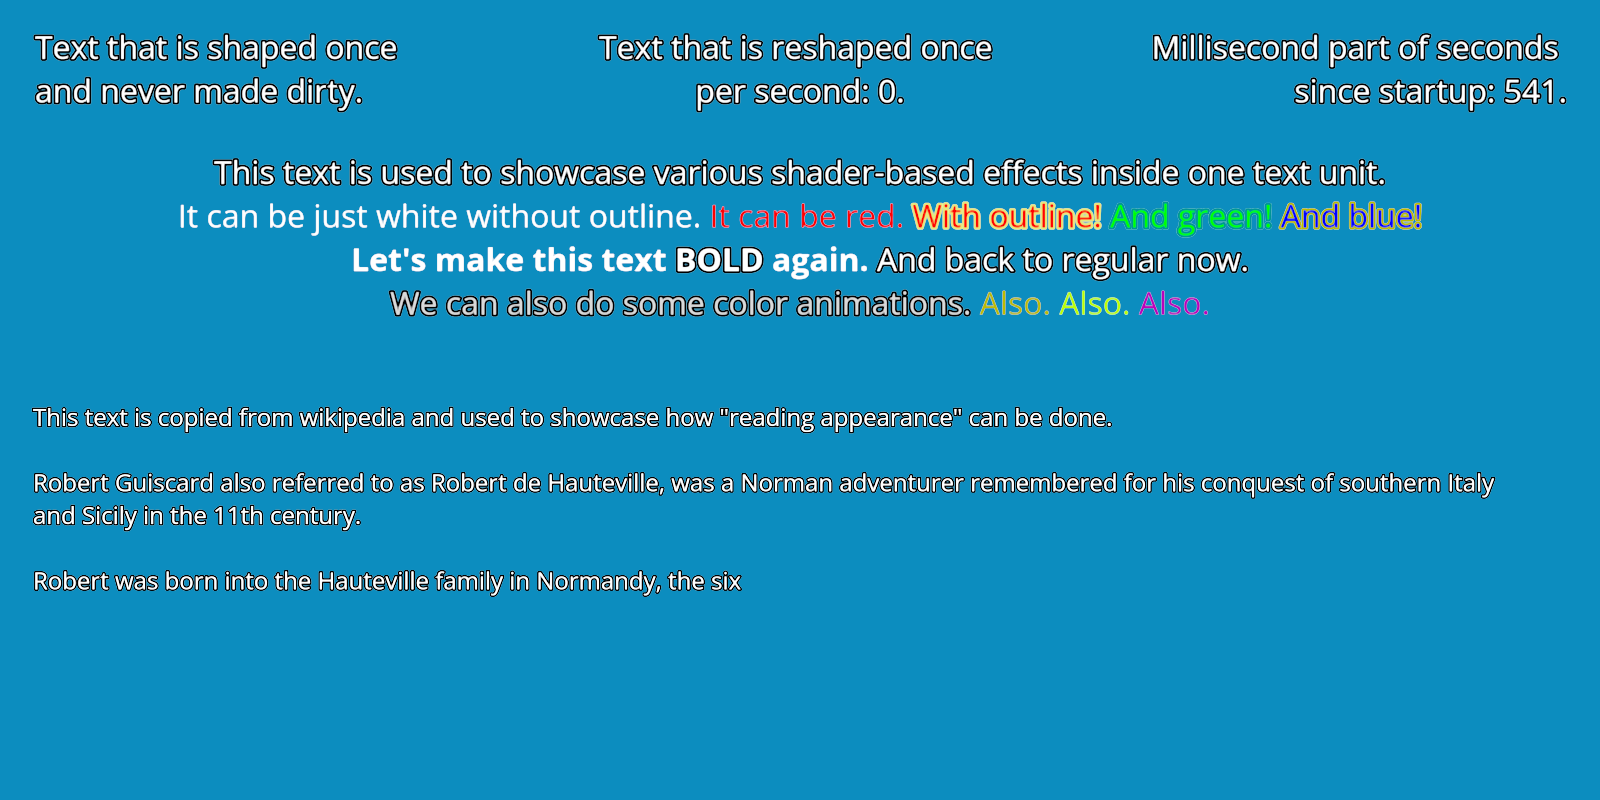
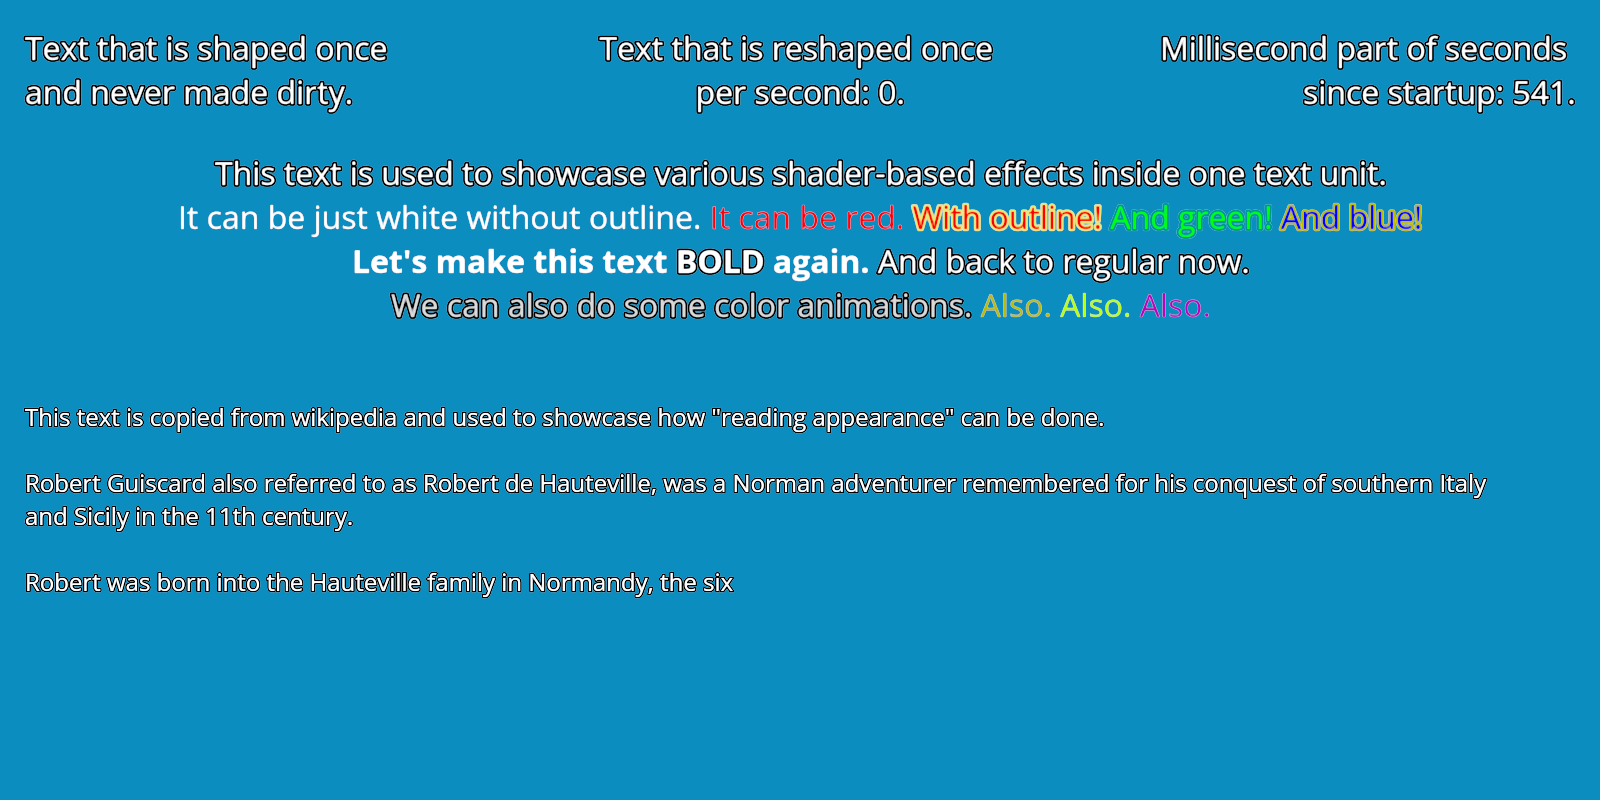
#88. text: More typographically correct shaped sequence positioning through ascenders and descenders. Will be important for the UI as with render-based bounds it would be impossible to preserve shared baselines.

diff --git a/unit/text_ft_hb/kan/text/text.c b/unit/text_ft_hb/kan/text/text.c
@@ -676,11 +676,8 @@ void kan_text_destroy (kan_text_t instance)
 
 void kan_text_shaped_data_init (struct kan_text_shaped_data_t *instance)
 {
-    instance->primary_default_ascender = 0;
-    instance->min.x = 0;
-    instance->min.y = 0;
-    instance->max.x = 0;
-    instance->max.y = 0;
+    instance->typographic_primary_size = 0u;
+    instance->typographic_secondary_size = 0u;
 
     kan_dynamic_array_init (&instance->glyphs, 0u, sizeof (struct kan_text_shaped_glyph_instance_data_t),
                             alignof (struct kan_text_shaped_glyph_instance_data_t), kan_allocation_group_stack_get ());
@@ -1018,6 +1015,8 @@ struct shape_context_t
     struct kan_dynamic_array_t sequences;
     struct kan_dynamic_array_t render_delayed;
 
+    int32_t primary_default_ascender_26_6;
+    int32_t primary_default_descender_26_6;
     int32_t icon_base_width_26_6;
     int32_t icon_base_height_26_6;
     int32_t icon_base_y_offset_26_6;
@@ -1876,11 +1875,19 @@ static void shape_text_node_icon (struct shape_context_t *context, struct text_n
 
 static void shape_post_process_sequences (struct shape_context_t *context)
 {
-    context->output->min.x = 0;
-    context->output->min.y = 0;
-    context->output->max.x = 0;
-    context->output->max.y = 0;
-    int32_t baseline_26_6 = 0;
+    context->output->typographic_primary_size = context->request->primary_axis_limit;
+    context->output->typographic_secondary_size = 0u;
+
+#if KAN_TEXT_FT_HB_ROUND_OFFSETS_TO_PIXELS > 0u
+#    define MASK_FRACT (64u - 1u)
+#    define MASK_TRUNC ~MASK_FRACT
+#    define ROUND_GAP(VARIABLE) VARIABLE = (VARIABLE & MASK_TRUNC) + ((VARIABLE & MASK_FRACT) > 0u ? 64u : 0u);
+#else
+#    define ROUND_GAP(VARIABLE)
+#endif
+
+    int32_t baseline_26_6 = context->primary_default_ascender_26_6;
+    ROUND_GAP (baseline_26_6);
 
     for (kan_loop_size_t sequence_index = 0u; sequence_index < context->sequences.size; ++sequence_index)
     {
@@ -1924,6 +1931,7 @@ static void shape_post_process_sequences (struct shape_context_t *context)
             }
         }
 
+        ROUND_GAP (alignment_offset_26_6);
         kan_loop_size_t glyph_limit = context->output->glyphs.size;
         kan_loop_size_t icon_limit = context->output->icons.size;
 
@@ -1964,11 +1972,6 @@ static void shape_post_process_sequences (struct shape_context_t *context)
             glyph->min.y = FROM_26_6 (min_26_6->y);
             glyph->max.x = FROM_26_6 (max_26_6->x);
             glyph->max.y = FROM_26_6 (max_26_6->y);
-
-            context->output->min.x = KAN_MIN (context->output->min.x, (int32_t) glyph->min.x);
-            context->output->min.y = KAN_MIN (context->output->min.y, (int32_t) glyph->min.y);
-            context->output->max.x = KAN_MAX (context->output->max.x, (int32_t) glyph->max.x);
-            context->output->max.y = KAN_MAX (context->output->max.y, (int32_t) glyph->max.y);
         }
 
         for (kan_loop_size_t icon_index = sequence->first_icon_index; icon_index < icon_limit; ++icon_index)
@@ -1999,14 +2002,18 @@ static void shape_post_process_sequences (struct shape_context_t *context)
             icon->min.y = roundf (FROM_26_6 (min_26_6->y));
             icon->max.x = roundf (FROM_26_6 (max_26_6->x));
             icon->max.y = roundf (FROM_26_6 (max_26_6->y));
+        }
 
-            context->output->min.x = KAN_MIN (context->output->min.x, (int32_t) icon->min.x);
-            context->output->min.y = KAN_MIN (context->output->min.y, (int32_t) icon->min.y);
-            context->output->max.x = KAN_MAX (context->output->max.x, (int32_t) icon->max.x);
-            context->output->max.y = KAN_MAX (context->output->max.y, (int32_t) icon->max.y);
+        if (sequence_index == context->sequences.size - 1u)
+        {
+            int32_t descender_gap = context->primary_default_descender_26_6;
+            ROUND_GAP (descender_gap);
+            context->output->typographic_secondary_size =
+                (kan_instance_size_t) roundf (FROM_26_6 (baseline_26_6 - descender_gap));
         }
 
         baseline_26_6 += sequence->biggest_line_space_26_6;
+        ROUND_GAP (baseline_26_6);
     }
 }
 
@@ -2068,7 +2075,8 @@ bool kan_font_library_shape (kan_font_library_t instance,
 
         struct hb_font_extents_t font_extents;
         hb_font_get_extents_for_direction (context.harfbuzz_font, harfbuzz_direction, &font_extents);
-        output->primary_default_ascender = (int32_t) FROM_26_6 (font_extents.ascender);
+        context.primary_default_ascender_26_6 = font_extents.ascender;
+        context.primary_default_descender_26_6 = font_extents.descender;
 
         context.icon_base_width_26_6 = font_extents.ascender - font_extents.descender;
         context.icon_base_height_26_6 = font_extents.ascender - font_extents.descender;
@@ -2076,7 +2084,8 @@ bool kan_font_library_shape (kan_font_library_t instance,
     }
     else
     {
-        output->primary_default_ascender = 0;
+        context.primary_default_ascender_26_6 = TO_26_6 (request->font_size);
+        context.primary_default_descender_26_6 = 0;
         context.icon_base_width_26_6 = TO_26_6 (request->font_size);
         context.icon_base_height_26_6 = TO_26_6 (request->font_size);
         context.icon_base_y_offset_26_6 = -context.icon_base_height_26_6;

diff --git a/unit/universe_text/kan/universe_text/text.c b/unit/universe_text/kan/universe_text/text.c
@@ -839,19 +839,11 @@ static void shape_unit (struct text_shaping_state_t *state,
                         kan_render_context_t render_context)
 {
     unit->dirty = false;
-    bool shaped_successfully = false;
-
-    CUSHION_DEFER
+    if (unit->request.primary_axis_limit == 0u)
     {
-        if (shaped_successfully)
-        {
-            unit->shaped = true;
-            unit->shaped_as_stable = unit->stable;
-        }
-        else
-        {
-            shaping_unit_on_failed (unit);
-        }
+        // Silent failure that is actually an expected skip by the docs.
+        shaping_unit_on_failed (unit);
+        return;
     }
 
     switch (locale->resource.preferred_direction)
@@ -872,12 +864,12 @@ static void shape_unit (struct text_shaping_state_t *state,
     {
         kan_text_shaped_data_shutdown (&shaped_data);
         KAN_LOG (text_shaping, KAN_LOG_ERROR, "Failed to execute text shaping due to errors in backend.")
+        shaping_unit_on_failed (unit);
         return;
     }
 
-    unit->shaped_primary_default_ascender = shaped_data.primary_default_ascender;
-    unit->shaped_min = shaped_data.min;
-    unit->shaped_max = shaped_data.max;
+    unit->shaped_primary_size = shaped_data.typographic_primary_size;
+    unit->shaped_secondary_size = shaped_data.typographic_secondary_size;
 
     if (unit->stable)
     {
@@ -944,7 +936,6 @@ static void shape_unit (struct text_shaping_state_t *state,
         }
 
         kan_text_shaped_data_shutdown (&shaped_data);
-        shaped_successfully = true;
     }
     else
     {
@@ -952,8 +943,11 @@ static void shape_unit (struct text_shaping_state_t *state,
         // On purpose: just copy pointers and go, do not shutdown shaped data on stack.
         unit->shaped_unstable.glyphs = shaped_data.glyphs;
         unit->shaped_unstable.icons = shaped_data.icons;
-        shaped_successfully = true;
     }
+
+    unit->shaped = true;
+    unit->shaped_as_stable = unit->stable;
+    KAN_UMO_EVENT_INSERT (event, kan_text_shaped_t) { event->id = unit->id; }
 }
 
 UNIVERSE_TEXT_API KAN_UM_MUTATOR_EXECUTE (text_shaping)
@@ -1063,7 +1057,7 @@ void kan_text_shaping_unit_init (struct kan_text_shaping_unit_t *instance)
     instance->request.orientation = KAN_TEXT_ORIENTATION_HORIZONTAL;
     instance->request.reading_direction = KAN_TEXT_READING_DIRECTION_LEFT_TO_RIGHT;
     instance->request.alignment = KAN_TEXT_SHAPING_ALIGNMENT_LEFT;
-    instance->request.primary_axis_limit = 200u;
+    instance->request.primary_axis_limit = 0u;
     instance->request.text = KAN_HANDLE_SET_INVALID (kan_text_t);
 
     instance->stable = true;
@@ -1071,11 +1065,8 @@ void kan_text_shaping_unit_init (struct kan_text_shaping_unit_t *instance)
     instance->shaped = false;
     instance->shaped_as_stable = true;
 
-    instance->shaped_primary_default_ascender = 0;
-    instance->shaped_min.x = 0;
-    instance->shaped_min.y = 0;
-    instance->shaped_max.x = 0;
-    instance->shaped_max.y = 0;
+    instance->shaped_primary_size = 0u;
+    instance->shaped_secondary_size = 0u;
 
     instance->shaped_stable.glyphs_count = 0u;
     instance->shaped_stable.icons_count = 0u;

diff --git a/unit/universe_text/kan/universe_text/text.h b/unit/universe_text/kan/universe_text/text.h
@@ -110,6 +110,8 @@ struct kan_text_shaping_unit_t
     /// \brief Shaping request. Text inside is owner by the shaping unit.
     /// \warning `reading_direction` field is automatically reset to the appropriate value from locale when shaping is
     ///          started, therefore it doesn't matter which value user sets there.
+    /// \warning If `primary_axis_limit` is zero, it is treated as "do not shape" configuration. It is useful for the
+    ///          cases when full shaping configuration will be prepared later, for example during laying out UI.
     struct kan_text_shaping_request_t request;
 
     /// \brief Whether this text should be shaped as stable text.
@@ -124,9 +126,8 @@ struct kan_text_shaping_unit_t
     /// \brief If `shaped`, tells whether it was `stable` when it was last shaped.
     bool shaped_as_stable;
 
-    int32_t shaped_primary_default_ascender;
-    struct kan_int32_vector_2_t shaped_min;
-    struct kan_int32_vector_2_t shaped_max;
+    kan_instance_size_t shaped_primary_size;
+    kan_instance_size_t shaped_secondary_size;
 
     union
     {
@@ -143,5 +144,11 @@ struct kan_text_shaping_unit_t
 UNIVERSE_TEXT_API void kan_text_shaping_unit_init (struct kan_text_shaping_unit_t *instance);
 
 UNIVERSE_TEXT_API void kan_text_shaping_unit_shutdown (struct kan_text_shaping_unit_t *instance);
+
+/// \brief Event that is sent when text unit shaping is executed.
+struct kan_text_shaped_t
+{
+    kan_text_shaping_unit_id_t id;
+};
 
 KAN_C_HEADER_END

diff --git a/unit/text/kan/text/text.h b/unit/text/kan/text/text.h
@@ -182,11 +182,11 @@ struct kan_text_shaped_icon_instance_data_t
 /// \brief Contains shaped data for rendering the whole text object.
 struct kan_text_shaped_data_t
 {
-    /// \brief Ascender value for the shaped data of the font category that is considered primary.
-    int32_t primary_default_ascender;
+    /// \brief Size on the primary direction.
+    kan_instance_size_t typographic_primary_size;
 
-    struct kan_int32_vector_2_t min;
-    struct kan_int32_vector_2_t max;
+    /// \brief Size on the secondary direction.
+    kan_instance_size_t typographic_secondary_size;
 
     KAN_REFLECTION_DYNAMIC_ARRAY_TYPE (struct kan_text_shaped_glyph_instance_data_t)
     struct kan_dynamic_array_t glyphs;
@@ -254,7 +254,7 @@ enum kan_text_shaping_alignment_t
 struct kan_text_shaping_request_t
 {
     /// \brief Font size for calculating glyph sizes for shaping.
-    uint32_t font_size;
+    kan_instance_size_t font_size;
 
     /// \brief Glyph render format for all glyphs in the text.
     enum kan_font_glyph_render_format_t render_format;

diff --git a/executable/application_framework_examples/unit/text_effects/example.c b/executable/application_framework_examples/unit/text_effects/example.c
@@ -953,20 +953,17 @@ static void try_render_frame (struct text_effects_render_state_t *state,
             const kan_instance_size_t glyphs_count =
                 unit->shaped_as_stable ? unit->shaped_stable.glyphs_count : unit->shaped_unstable.glyphs.size;
 
-            push.offset_and_time.x -= unit->shaped_min.x;
-            push.offset_and_time.y -= unit->shaped_min.y;
-
             switch (unit->request.alignment)
             {
             case KAN_TEXT_SHAPING_ALIGNMENT_LEFT:
                 break;
 
             case KAN_TEXT_SHAPING_ALIGNMENT_CENTER:
-                push.offset_and_time.x -= ((float) unit->request.primary_axis_limit) * 0.5f;
+                push.offset_and_time.x -= ((float) unit->shaped_primary_size) * 0.5f;
                 break;
 
             case KAN_TEXT_SHAPING_ALIGNMENT_RIGHT:
-                push.offset_and_time.x -= (unit->shaped_max.x - unit->shaped_min.x);
+                push.offset_and_time.x -= (float) unit->shaped_primary_size;
                 break;
             }
 

diff --git a/executable/application_framework_examples/unit/test_utilities/kan/test_routine/test_routine.c b/executable/application_framework_examples/unit/test_utilities/kan/test_routine/test_routine.c
@@ -255,6 +255,12 @@ TEST_ROUTINE_API KAN_UM_MUTATOR_EXECUTE (test_routine)
                                  (unsigned long) index, 100.0f * (float) error_count / (float) pixel_count)
                         exit_code = 1;
                     }
+                    else
+                    {
+                        KAN_LOG (application_framework_example_test_routine, KAN_LOG_INFO,
+                                 "Frame and expectation difference at view %lu is %.3f%%.", (unsigned long) index,
+                                 100.0f * (float) error_count / (float) pixel_count)
+                    }
                 }
 
                 kan_application_framework_system_request_exit (state->application_framework_system_handle, exit_code);

diff --git a/test/text/test_text.c b/test/text/test_text.c
@@ -752,8 +752,8 @@ static void run_test (const char *expectation_file, struct kan_text_shaping_requ
         push_data.projection_view =
             kan_orthographic_projection (0.0f, (float) TEST_WIDTH, (float) TEST_HEIGHT, 0.0f, 0.01f, 5000.0f);
 
-        push_data.element_offset.x = 100.0f - (float) shaped_data.min.x;
-        push_data.element_offset.y = 100.0f - (float) shaped_data.min.y;
+        push_data.element_offset.x = 100.0f;
+        push_data.element_offset.y = 100.0f;
         push_data.element_offset.z = 0.0f;
         push_data.element_offset.w = 0.0f;
         kan_render_pass_instance_push_constant (text_instance, &push_data);
